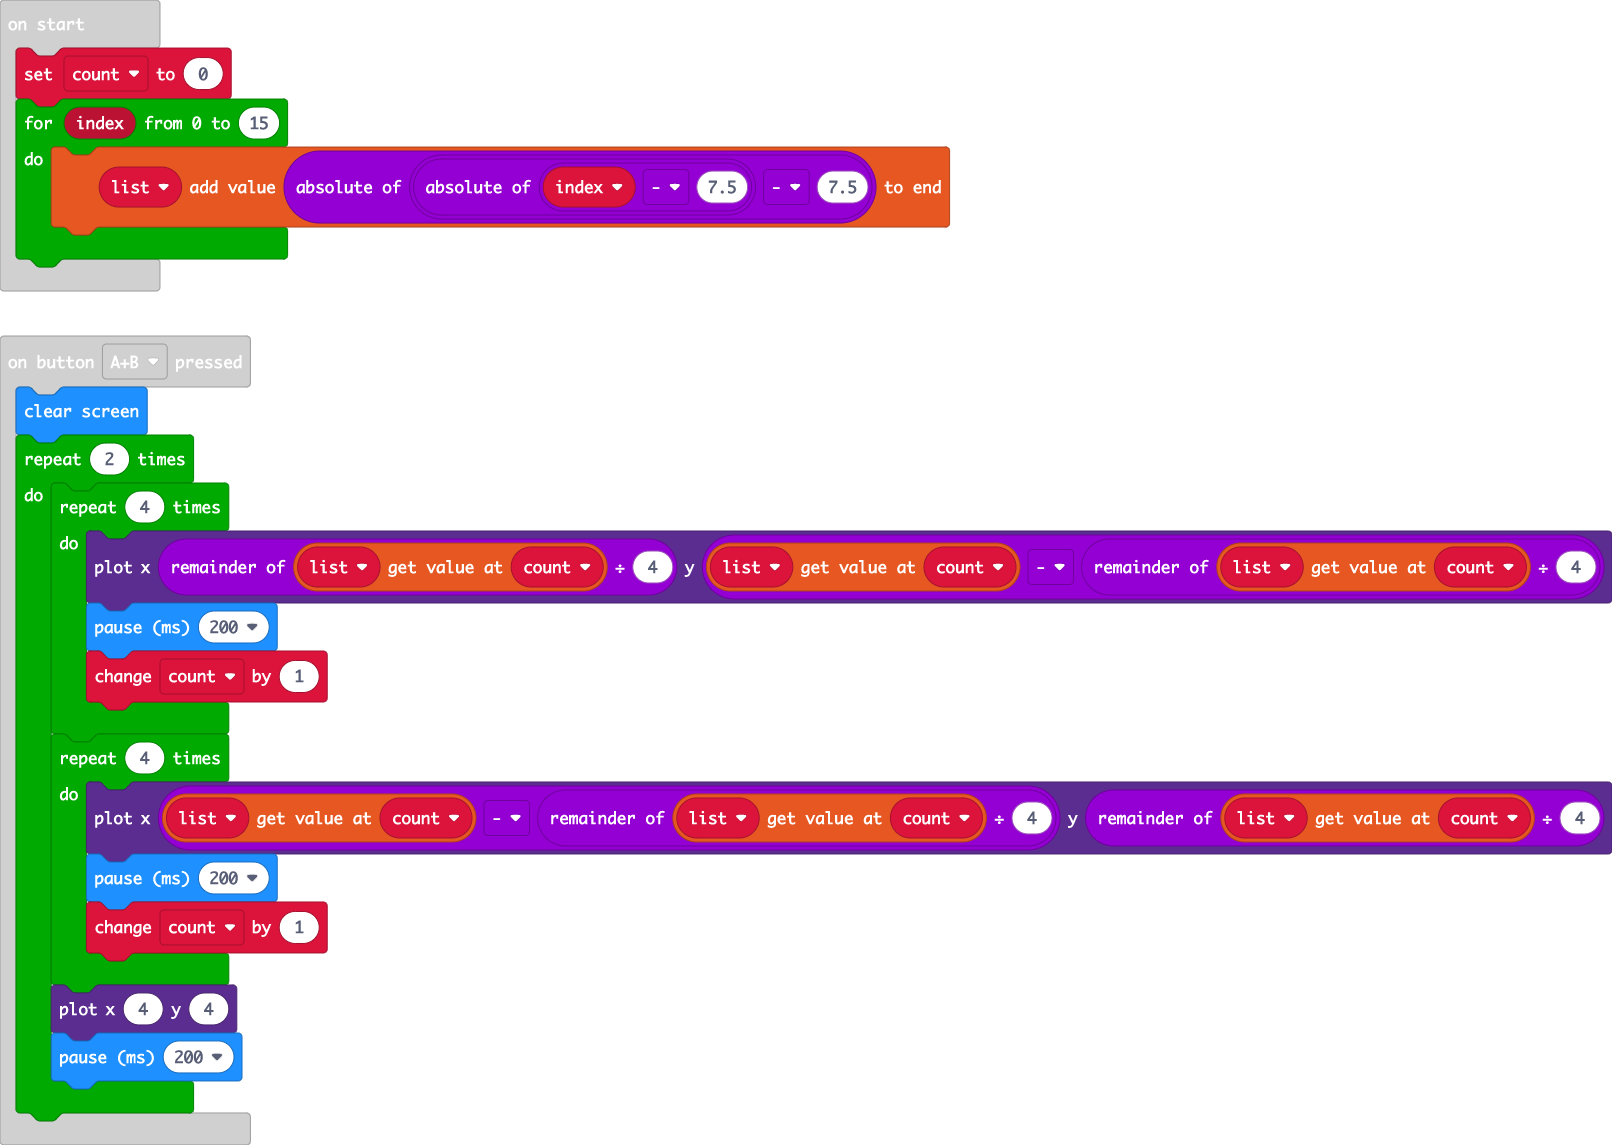
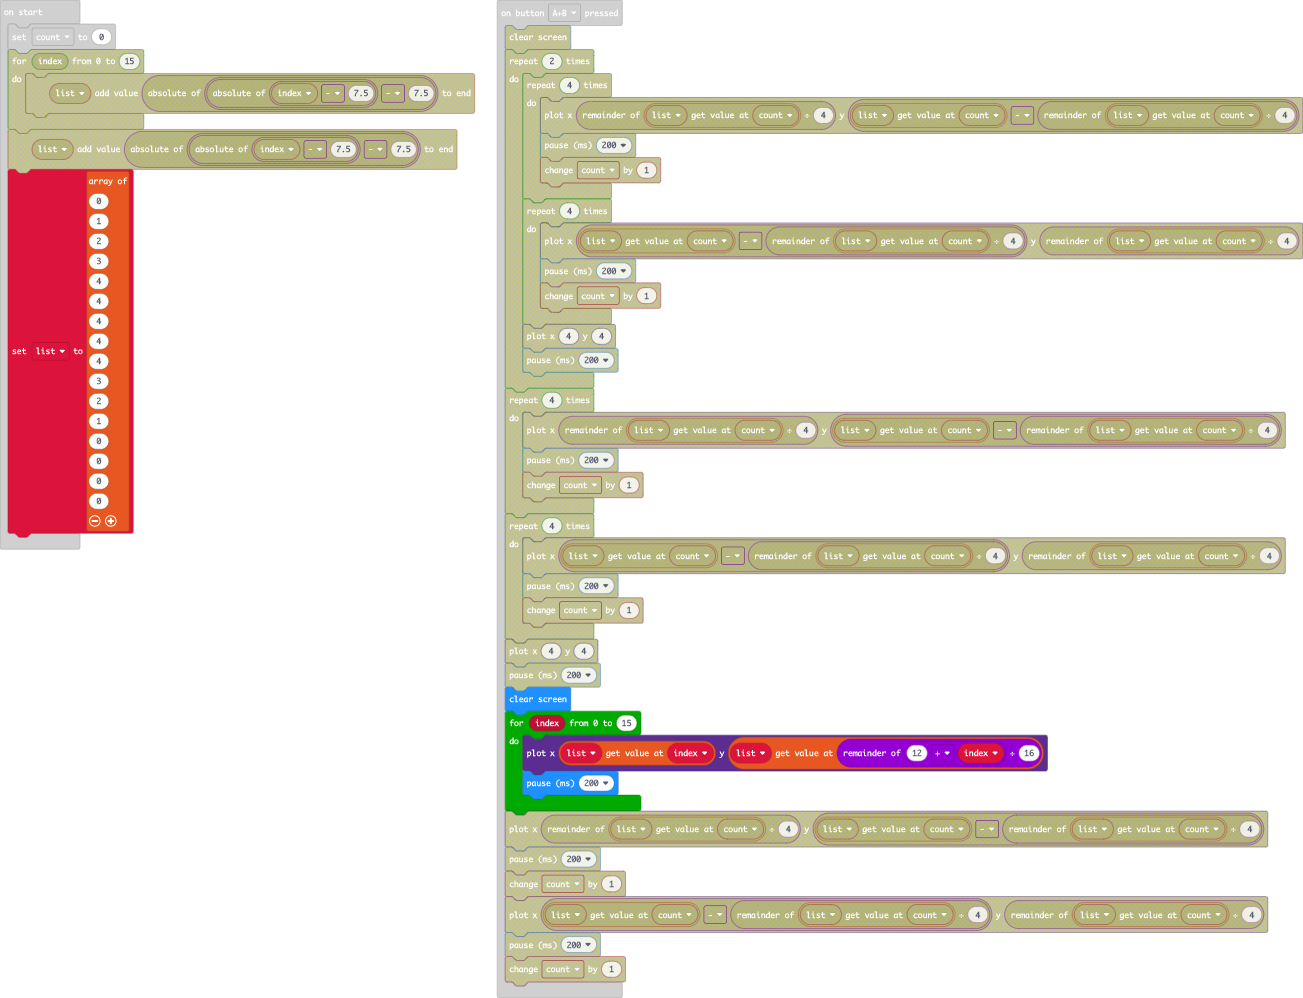
Update main.blocks, main.ts

diff --git a/main.ts b/main.ts
@@ -7,18 +7,8 @@ input.onButtonPressed(Button.A, function () {
 })
 input.onButtonPressed(Button.AB, function () {
     basic.clearScreen()
-    for (let index = 0; index < 2; index++) {
-        for (let index = 0; index < 4; index++) {
-            led.plot(list[count] % 4, list[count] - list[count] % 4)
-            basic.pause(200)
-            count += 1
-        }
-        for (let index = 0; index < 4; index++) {
-            led.plot(list[count] - list[count] % 4, list[count] % 4)
-            basic.pause(200)
-            count += 1
-        }
-        led.plot(4, 4)
+    for (let index = 0; index <= 15; index++) {
+        led.plot(list[index], list[(12 + index) % 16])
         basic.pause(200)
     }
 })
@@ -44,7 +34,21 @@ let y = 0
 let x = 0
 let list: number[] = []
 let count = 0
-count = 0
-for (let index = 0; index <= 15; index++) {
-    list.push(Math.abs(Math.abs(index - 7.5) - 7.5))
-}
+list = [
+0,
+1,
+2,
+3,
+4,
+4,
+4,
+4,
+4,
+3,
+2,
+1,
+0,
+0,
+0,
+0
+]
